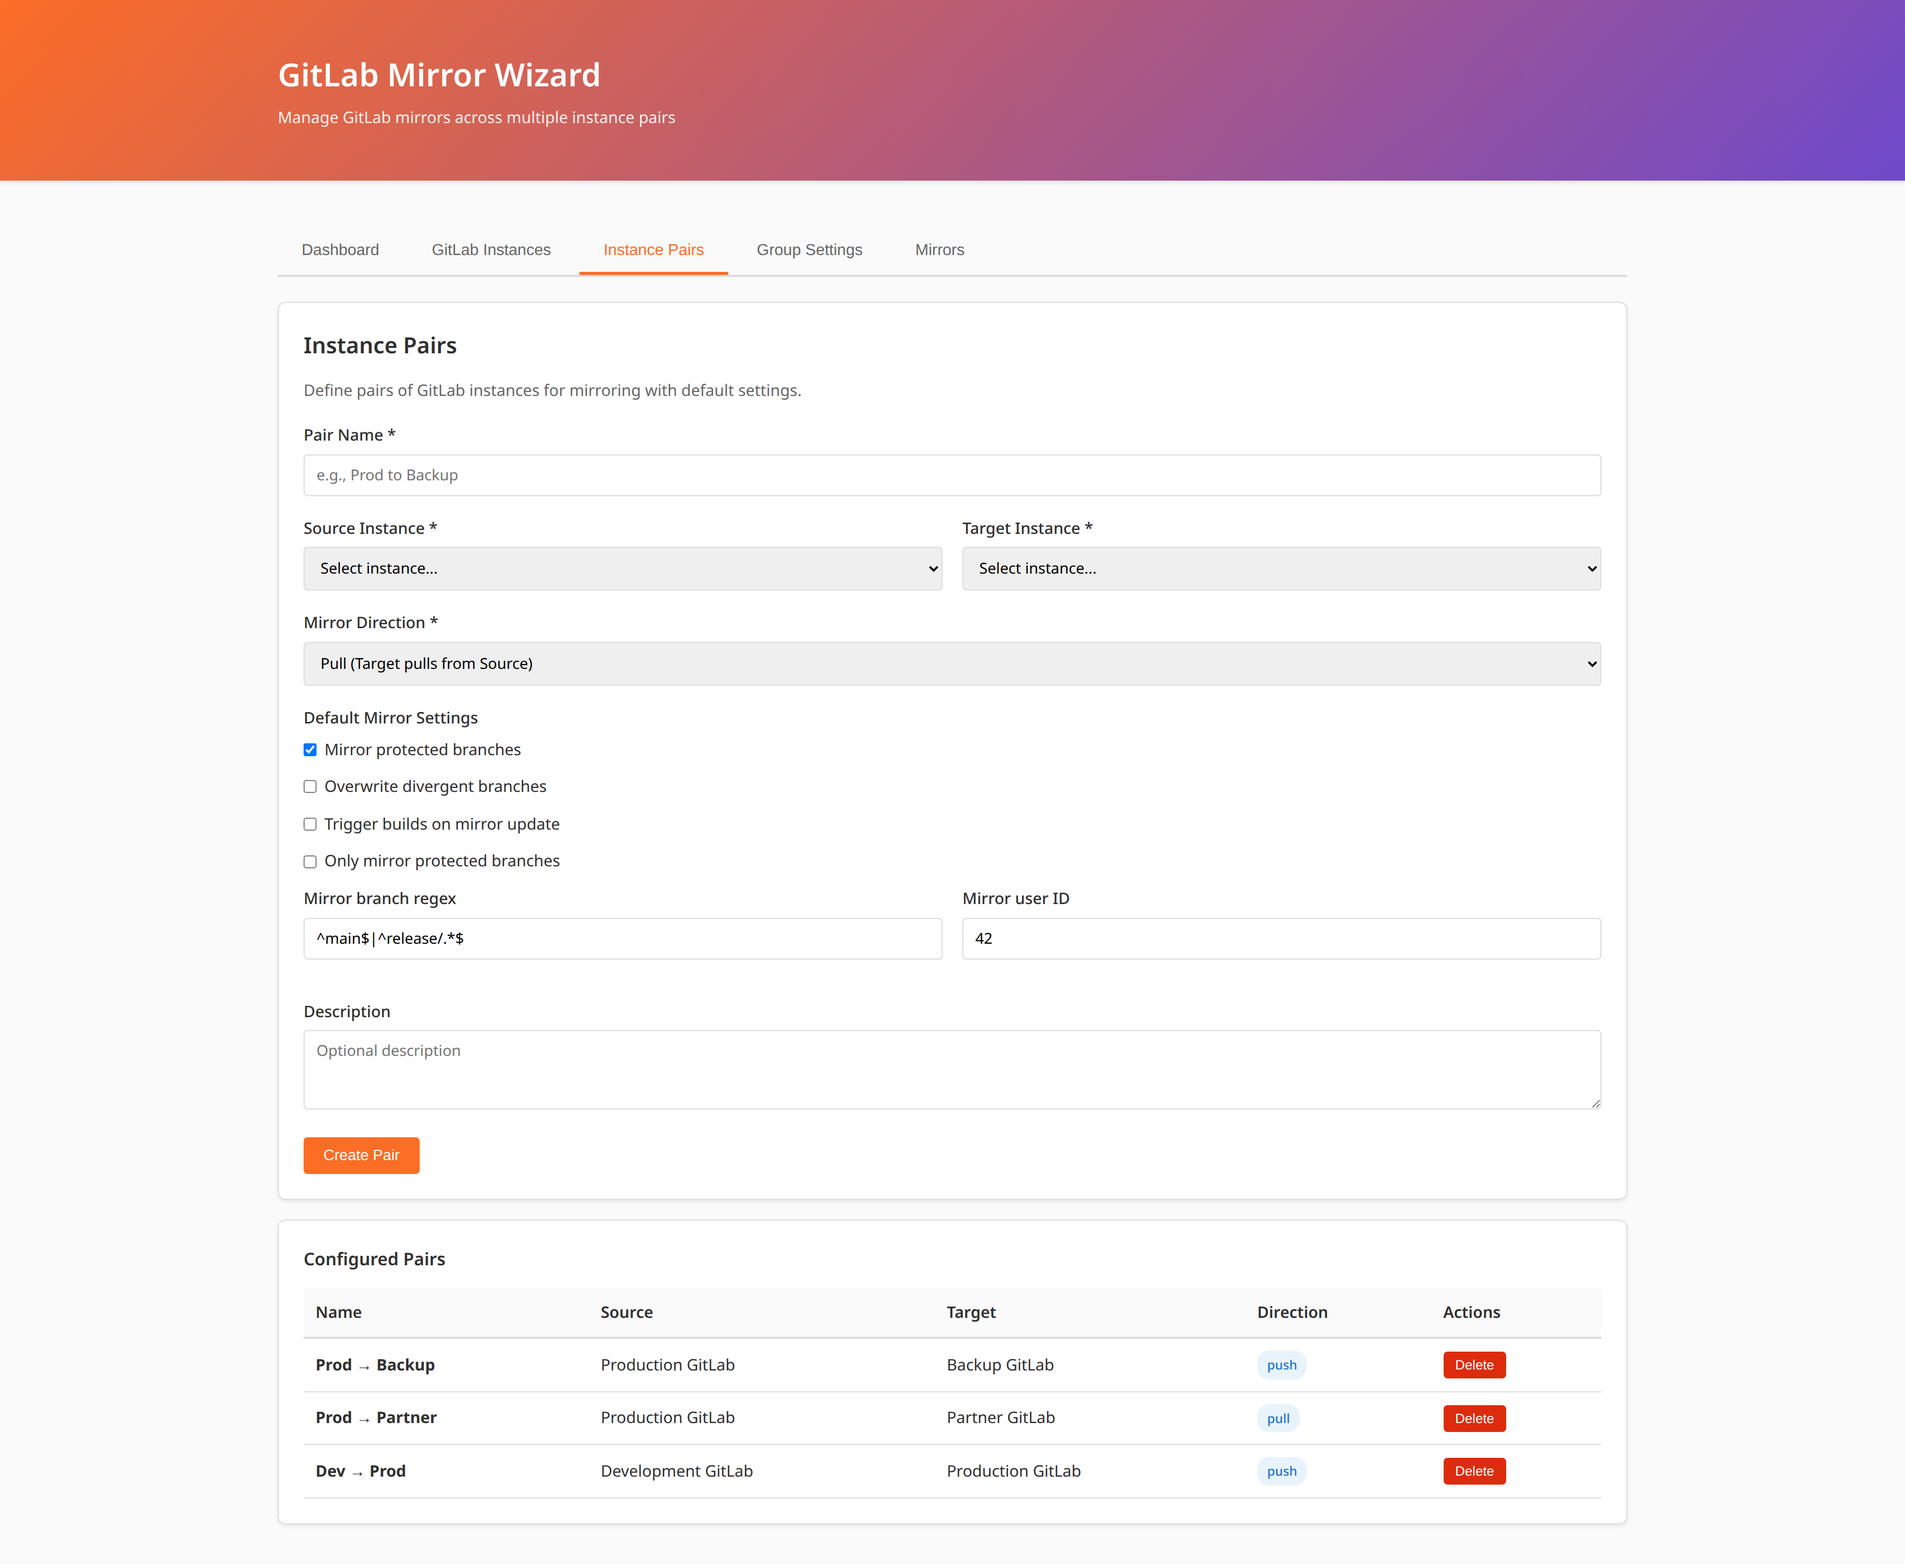
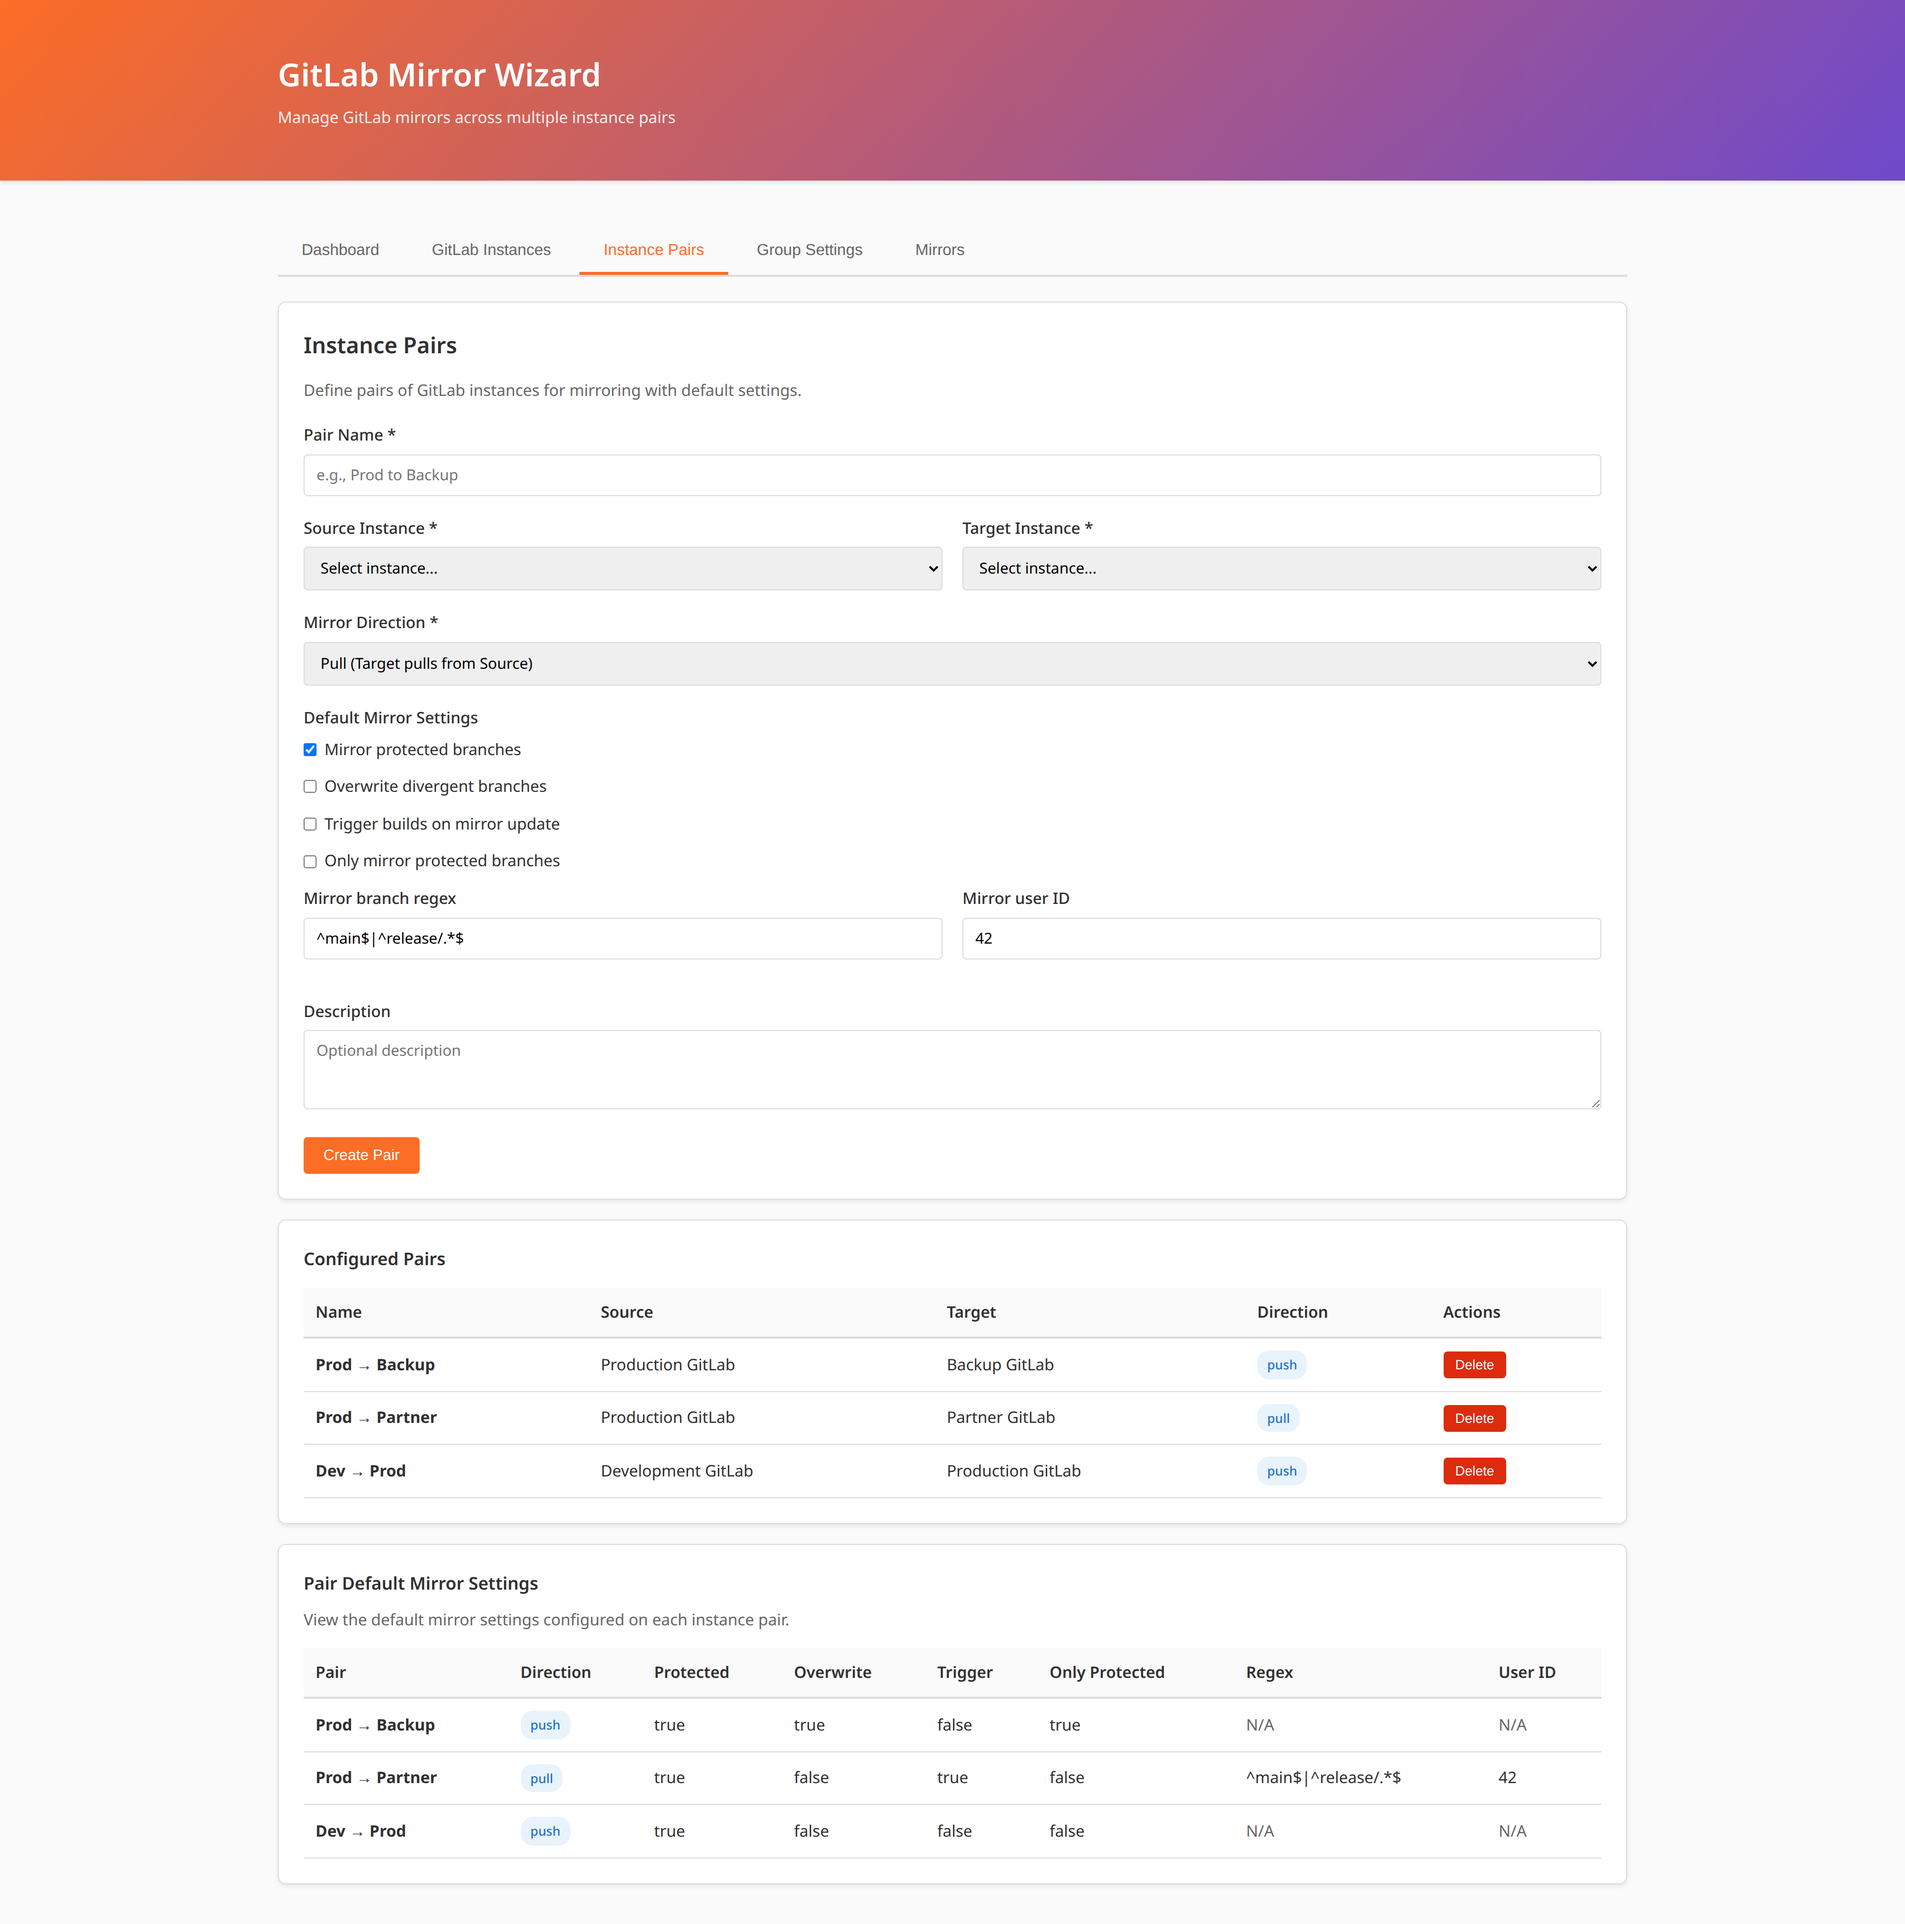
Add pair default mirror settings view

diff --git a/docs/screenshots/demo-pairs.html b/docs/screenshots/demo-pairs.html
@@ -149,6 +149,57 @@
                     </tbody>
                 </table>
             </div>
+
+            <div class="card">
+                <h3>Pair Default Mirror Settings</h3>
+                <p class="text-muted">View the default mirror settings configured on each instance pair.</p>
+                <table>
+                    <thead>
+                        <tr>
+                            <th>Pair</th>
+                            <th>Direction</th>
+                            <th>Protected</th>
+                            <th>Overwrite</th>
+                            <th>Trigger</th>
+                            <th>Only Protected</th>
+                            <th>Regex</th>
+                            <th>User ID</th>
+                        </tr>
+                    </thead>
+                    <tbody>
+                        <tr>
+                            <td><strong>Prod → Backup</strong></td>
+                            <td><span class="badge badge-info">push</span></td>
+                            <td>true</td>
+                            <td>true</td>
+                            <td>false</td>
+                            <td>true</td>
+                            <td><span class="text-muted">N/A</span></td>
+                            <td><span class="text-muted">N/A</span></td>
+                        </tr>
+                        <tr>
+                            <td><strong>Prod → Partner</strong></td>
+                            <td><span class="badge badge-info">pull</span></td>
+                            <td>true</td>
+                            <td>false</td>
+                            <td>true</td>
+                            <td>false</td>
+                            <td>^main$|^release/.*$</td>
+                            <td>42</td>
+                        </tr>
+                        <tr>
+                            <td><strong>Dev → Prod</strong></td>
+                            <td><span class="badge badge-info">push</span></td>
+                            <td>true</td>
+                            <td>false</td>
+                            <td>false</td>
+                            <td>false</td>
+                            <td><span class="text-muted">N/A</span></td>
+                            <td><span class="text-muted">N/A</span></td>
+                        </tr>
+                    </tbody>
+                </table>
+            </div>
         </div>
     </div>
 </body>

diff --git a/app/static/js/app.js b/app/static/js/app.js
@@ -232,6 +232,7 @@ async function loadPairs() {
         const pairs = await apiRequest('/api/pairs');
         state.pairs = pairs;
         renderPairs(pairs);
+        renderPairDefaults(pairs);
         updatePairSelector();
     } catch (error) {
         console.error('Failed to load pairs:', error);
@@ -263,6 +264,33 @@ function renderPairs(pairs) {
             </tr>
         `;
     }).join('');
+}
+
+function renderPairDefaults(pairs) {
+    const tbody = document.getElementById('pair-defaults-list');
+    if (!tbody) return;
+
+    if (pairs.length === 0) {
+        tbody.innerHTML = '<tr><td colspan="8" class="text-center text-muted">No instance pairs configured</td></tr>';
+        return;
+    }
+
+    const fmtBool = (v) => v ? 'true' : 'false';
+    const fmtStr = (v) => (v === null || v === undefined || String(v).trim() === '') ? '<span class="text-muted">N/A</span>' : escapeHtml(String(v));
+    const badge = (dir) => `<span class="badge badge-info">${escapeHtml((dir || '').toString().toLowerCase() || 'n/a')}</span>`;
+
+    tbody.innerHTML = pairs.map(pair => `
+        <tr>
+            <td><strong>${escapeHtml(pair.name)}</strong></td>
+            <td>${badge(pair.mirror_direction)}</td>
+            <td>${fmtBool(!!pair.mirror_protected_branches)}</td>
+            <td>${fmtBool(!!pair.mirror_overwrite_diverged)}</td>
+            <td>${fmtBool(!!pair.mirror_trigger_builds)}</td>
+            <td>${fmtBool(!!pair.only_mirror_protected_branches)}</td>
+            <td>${fmtStr(pair.mirror_branch_regex)}</td>
+            <td>${fmtStr(pair.mirror_user_id)}</td>
+        </tr>
+    `).join('');
 }
 
 async function createPair() {

diff --git a/app/templates/index.html b/app/templates/index.html
@@ -218,6 +218,28 @@
                     </tbody>
                 </table>
             </div>
+
+            <div class="card">
+                <h3>Pair Default Mirror Settings</h3>
+                <p class="text-muted">View the default mirror settings configured on each instance pair.</p>
+                <table>
+                    <thead>
+                        <tr>
+                            <th>Pair</th>
+                            <th>Direction</th>
+                            <th>Protected</th>
+                            <th>Overwrite</th>
+                            <th>Trigger</th>
+                            <th>Only Protected</th>
+                            <th>Regex</th>
+                            <th>User ID</th>
+                        </tr>
+                    </thead>
+                    <tbody id="pair-defaults-list">
+                        <tr><td colspan="8" class="text-center"><div class="spinner"></div></td></tr>
+                    </tbody>
+                </table>
+            </div>
         </div>
 
         <!-- Group Settings Tab -->
